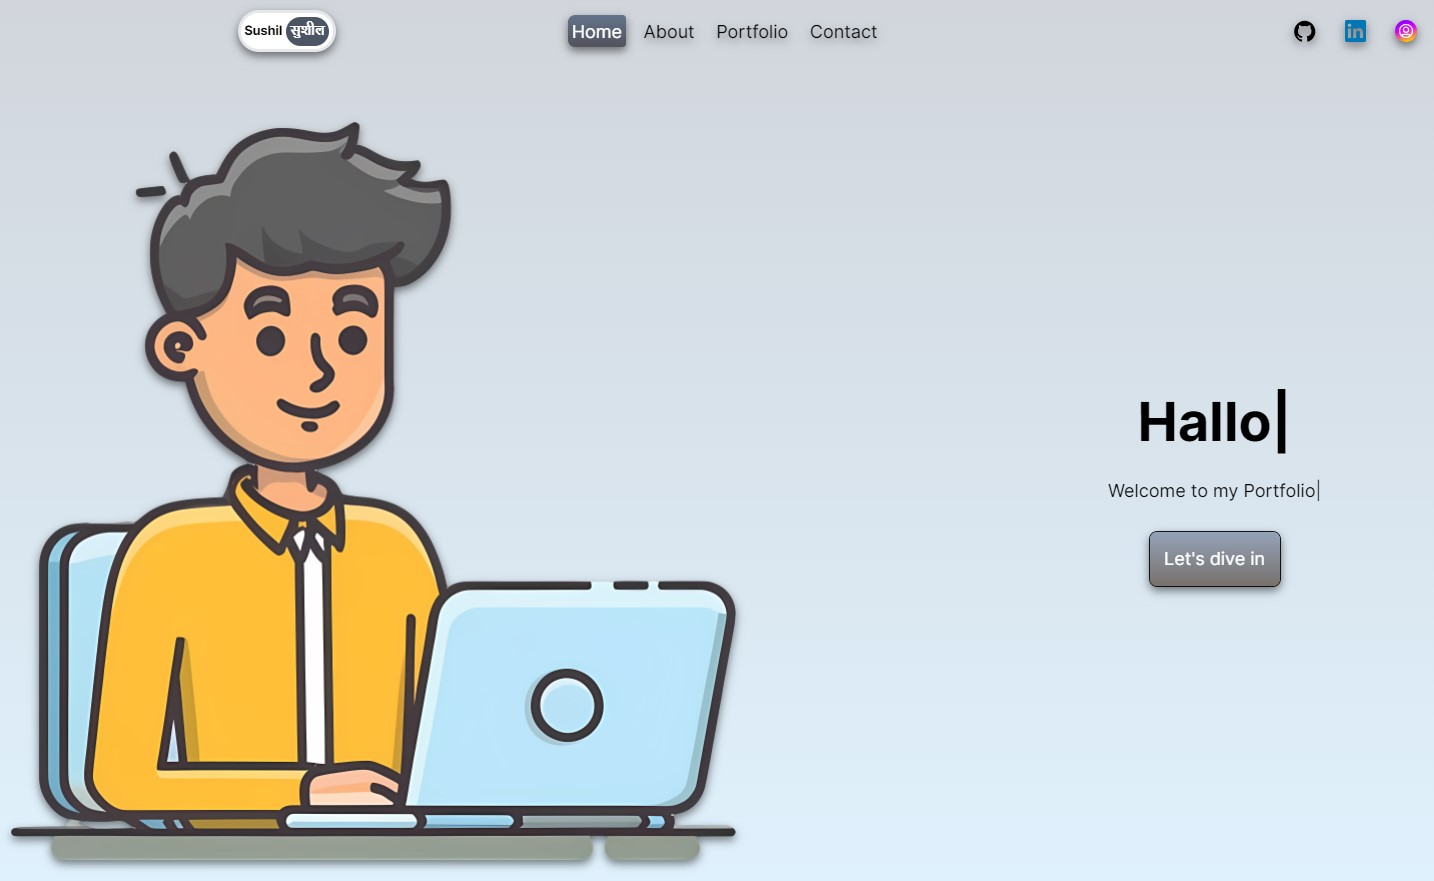
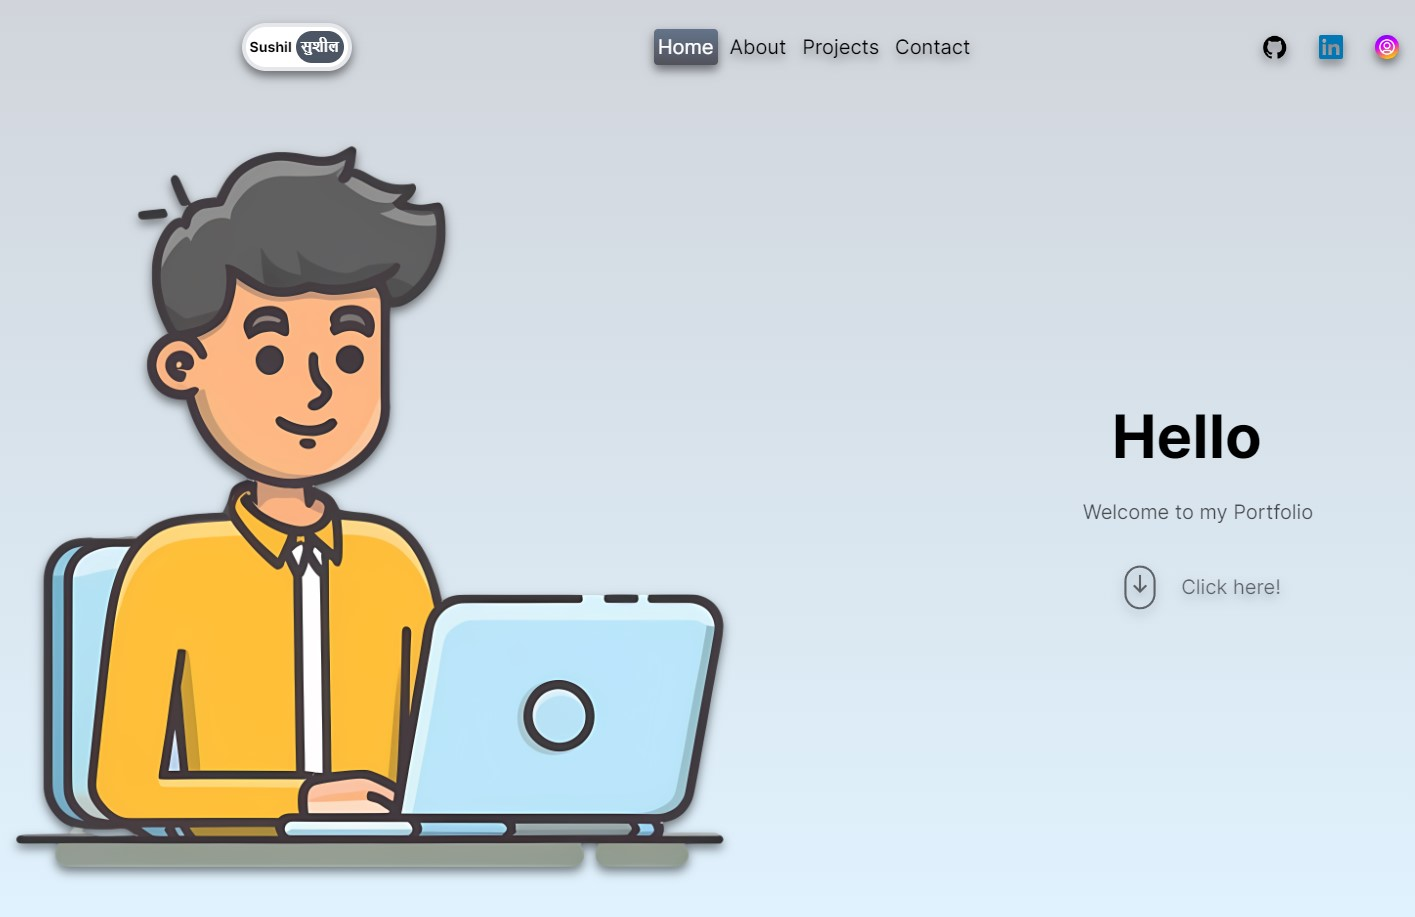
00_Update_website "Final update"

diff --git a/src/app/about/page.jsx b/src/app/about/page.jsx
@@ -38,7 +38,7 @@ const AboutPage = () => {
                         
                         {/* BIO IMAGE */}
                         <Image
-                        src="/profile.jpg"
+                        src="/profile.png"
                         alt=""
                         width={150}
                         height={150}
@@ -50,7 +50,7 @@ const AboutPage = () => {
                         
                         {/*BIO DESCRIPTION*/}
                         <p className="text-lg">
-                            My name is <b>Sushil</b>, frontend developer adept at crafting intuitive user interfaces with a keen eye for design and functionality.   
+                            My name is <b>Your Name</b>, frontend developer adept at crafting intuitive user interfaces with a keen eye for design and functionality.   
                         </p>
                         
                         {/*BIO QUOTE*/}
@@ -167,10 +167,10 @@ const AboutPage = () => {
                                 <div className="w-1/3 flex flex-wrap">
                                     {/*JOB TITLE*/}
                                     <div className="bg-slate-100 p-3 font-semibold rounded-b-lg rounded-s-lg drop-shadow-[0_5px_5px_rgba(0,0,0,0.5)]">
-                                        Software Developer - Apprenticeship
+                                        Software Developer - Blip Blop
                                         {/*JOB COMPANY*/}
                                         <div className="p-1 rounded text-xs text-amber-500 font-semibold w-fixed">
-                                        4K Analytics GmbH, Leipzig
+                                        Location, Country
                                         </div>
                                     </div>
                                     {/*JOB DESCRIPTION*/}
@@ -217,15 +217,15 @@ const AboutPage = () => {
                                 <div className="w-1/3 flex flex-wrap">
                                     {/*DEGREE TITLE*/}
                                     <div className="bg-slate-100 p-3 font-semibold rounded-b-lg rounded-s-lg drop-shadow-[0_5px_5px_rgba(0,0,0,0.5)]">
-                                        Global Business and Economics - B.Sc.
+                                        Education - B.Sc.
                                         {/*UNI NAME*/}
                                         <div className="p-1 rounded text-xs text-amber-500 font-semibold w-fixed">
-                                        Fachhochschule Aachen, Aachen
+                                        University, Location
                                         </div>
                                     </div>
                                     {/*JOB DESCRIPTION*/}
                                     <div className="p-3 text-xs italic">
-                                        Specialisation: International Business
+                                        Specialisation: Study Field
                                     </div>
                                     {/*JOB PERIOD*/}
                                     <div className="p3 text-orange-600 text-xs font-semibold"> 
@@ -240,14 +240,14 @@ const AboutPage = () => {
                                 <div className="w-1/3 flex flex-wrap">
                                     {/*JOB TITLE*/}
                                     <div className="bg-slate-100 p-3 font-semibold rounded-b-lg rounded-s-lg drop-shadow-[0_5px_5px_rgba(0,0,0,0.5)]">
-                                        Studienkolleg
+                                        Studies
                                         <div className="p-1 rounded text-xs text-amber-500 font-semibold w-fixed">
-                                            Fachhochschule Kiel, Kiel
+                                            University, Location
                                         </div>
                                     </div>
                                     {/*JOB DESCRIPTION*/}
                                     <div className="p-3 text-xs italic">
-                                        Subjects: Maths, Economic, Informatics, English & German
+                                        Subjects: TBD, TBD, TBD
                                     </div>
                                     {/*JOB PERIOD*/}
                                     <div className="p3 text-orange-600 text-xs font-semibold"> 
@@ -294,7 +294,7 @@ const AboutPage = () => {
                                     animate={{ opacity: 1, y: "10px" }}
                                     transition={{ repeat: Infinity, duration: 3, ease: "easeInOut" }}
                                 >
-                                    Click for more!
+                                    Click here!
                                 </motion.div>
                             </div>
                             </Link>

diff --git a/src/app/projects/page.jsx b/src/app/projects/page.jsx
@@ -7,35 +7,43 @@ import {motion, useScroll, useTransform} from "framer-motion";
 
 const items = [
     {
-        id: 3,
-        color:  "from-slate-600 to-gray-700",
-        title:  "Bishop-Blitz",
-        desc:   "An online Chess game built with Angular, TypeScript with Stockfish API.",
-        img:    "/bishop_blitz.jpg",
-        link:   "https://bishopblitz.netlify.app/",
-    },
-    {
         id: 1,
         color:  "from-slate-600 to-gray-700",
-        title:  "Nike-clone",
-        desc:   "Nike landing page clone, built with React and Tailwind CSS",
-        img:    "/nike_clone.jpg",
-        link:   "https://sushil-clone-nike-landing-page.netlify.app",  
+        title:  "TBD Project",
+        desc:   "TBD Description",
+        img:    "/under_construction.jpg",
+        link:   "https://github.com/" 
     },
     {
         id: 2,
+        color:  "from-slate-600 to-gray-700",
+        title:  "TBD Project",
+        desc:   "TBD Description",
+        img:    "/under_construction.jpg",
+        link:   "https://github.com/"
+    },
+    {
+        id: 3,
         color:  "from-slate-400 to-gray-500",
-        title:  "Nile",
-        desc:   "A single page E-commerce app built with Angular and TypeScript.",
-        img:    "/nile_ecom.jpg",
-        link:   "https://nile-rvr.netlify.app/",  
+        title:  "TBD Project",
+        desc:   "TBD Description",
+        img:    "/under_construction.jpg",
+        link:   "https://github.com/"
+    },
+    {
+        id: 4,
+        color:  "from-slate-400 to-gray-500",
+        title:  "TBD Project",
+        desc:   "TBD Description",
+        img:    "/under_construction.jpg",
+        link:   "https://github.com/" 
     },
 ]
 
 const ProjectsPage = () => {
     const ref = useRef();
     const {scrollYProgress} = useScroll({target:ref});
-    const x = useTransform(scrollYProgress, [0, 1], ["0%", "-75%"]);
+    const x = useTransform(scrollYProgress, [0, 1], ["0%", "-80%"]);
 
     return (
         <motion.div 
@@ -63,9 +71,11 @@ const ProjectsPage = () => {
                                     {/*Description*/}
                                     <p className="w-80 md:w-96 lg:w-[500px] lg:text-lg xl:w-[600px]">{item.desc}</p>
                                     {/*Link with Button*/}
+                                    <div>
                                     <Link href={item.link} className="flex justify-end" target="_blank">
-                                        < button className="p-2 text-sm md:p-4 md:text-md lg:text-lg bg-white text-gray-600 font-semibold rounded-lg overflow-hidden drop-shadow-[0_5px_5px_rgba(0,0,0,0.5)]">Visit website</button>
+                                        < button className="p-2 text-sm md:p-4 md:text-md lg:text-lg bg-white text-gray-600 font-semibold rounded-lg overflow-hidden drop-shadow-[0_5px_5px_rgba(0,0,0,0.5)]">Github</button>
                                     </Link>
+                                    </div>
                                 </div>
                             </div>
                         ))}
@@ -77,17 +87,17 @@ const ProjectsPage = () => {
                 <h1 className="text-6xl">
                     Thank you for your visit!
                 </h1>
-                <motion.div 
-                    whileHover={{ 
-                        scale: [1.1, 1],    
+                <motion.div
+                    whileHover={{
+                        scale: [1.1, 1],
                     }}
                     transition={{
-                        type: "spring", stiffness: 400, damping: 10 
+                        type: "spring", stiffness: 400, damping: 10
                     }}
                     className="relative px-8 flex gap-4 w-full grid justify-center rounded-lg drop-shadow-[0_5px_5px_rgba(0,0,0,0.5)]">
                     <Link href="/contact">
                         <svg width="167.707" height="167.707">
-                            <path  
+                            <path
                                 fill="222221" 
                                 d="M154.799,140.863H12.909C5.791,140.863,0,135.072,0,127.954V39.753c0-7.118,5.791-12.909,12.909-12.909h141.89c7.117,0,12.908,5.791,12.908,12.909v88.201C167.707,135.072,161.916,140.863,154.799,140.863z M7.013,133.22c1.449,1.621,3.556,2.644,5.896,2.644h141.89c2.324,0,4.416-1.008,5.864-2.608L97.388,86.822l-12.068,8.809c-0.876,0.64-2.065,0.641-2.943,0.003l-12.133-8.814L7.013,133.22zM101.624,83.729l61.062,44.808c0.015-0.192,0.021-0.387,0.021-0.583V39.753c0-0.199-0.008-0.397-0.022-0.593L101.624,83.729zM5.007,39.427C5.002,39.535,5,39.644,5,39.753v88.201c0,0.178,0.006,0.354,0.018,0.527l60.979-44.747L5.007,39.427z M6.896,34.619l76.945,55.899l76.817-56.07c-1.448-1.599-3.539-2.604-5.86-2.604H12.909C10.505,31.844,8.349,32.922,6.896,34.619z"/>
                             </svg>

diff --git a/src/components/navbar.jsx b/src/components/navbar.jsx
@@ -75,8 +75,8 @@ const Navbar = () => {
             {/*NAME*/}
             <div className="md:hidden lg:flex xl:w-1/3 justify-center">
                 <Link href="/" className="text-sm bg-white rounded-full border-4 border-color:inherit p-1 font-bold flex items-center justify-center overflow-hidden drop-shadow-[0_5px_5px_rgba(0,0,0,0.5)]">
-                    <span className="text-black mr-1">Sushil</span>
-                    <span className="w-12 h-8 rounded-full bg-gray-600 text-white flex items-center justify-center">सुशील</span>
+                    <span className="text-black mr-1">Name</span>
+                    <span className="w-12 h-8 rounded-full bg-gray-600 text-white flex items-center justify-center">Sur</span>
                 </Link> 
             </div>
 
@@ -89,16 +89,16 @@ const Navbar = () => {
               
             {/*SOCIAL MEDIA*/}
             <div className="hidden lg:flex xl:w-1/3 xl:justify-center gap-8 rounded-lg overflow-hidden drop-shadow-[0_5px_5px_rgba(0,0,0,0.5)]">
-               <Link href="https://github.com/sdulal123" target="_blank">
+               <Link href="https://github.com/" target="_blank">
                <Image src="/github.png" alt="" width={24} height={24}/>
                </Link>
-               <Link href="https://linkedin.com/in/sushildulal123/" target="_blank">
+               <Link href="https://linkedin.com/" target="_blank">
                <Image src="/linkedin.png" alt="" width={24} height={24}/>
                </Link>
-               <Link href="https://instagram.com/sdstudio420/" target="_blank">
+               <Link href="https://instagram.com/" target="_blank">
                <Image src="/instagram.png" alt="" width={24} height={24}/>
                </Link> 
-            </div>        
+            </div>
             
             {/*RESPONSIVE MENU*/}
             <div className="md:hidden">           

diff --git a/src/app/page.jsx b/src/app/page.jsx
@@ -37,13 +37,8 @@ const Homepage = () => {
 
           {/*DESCRIPTION*/}
           <p className="md:text-xl animate-pulse">
-            <TypeAnimation
-              sequence={[
-                "Welcome to my Portfolio", 20000]}
-                speed={{ type: 'keyStrokeDelayInMs', value: 100 }}
-                deletionSpeed={{ type: 'keyStrokeDelayInMs', value: 100 }}
-              />
-            </p>
+              Welcome to my Portfolio
+          </p>
           
           {/*Home Scroll SVG*/}
           <Link href="/about" scroll={false}>
@@ -69,7 +64,7 @@ const Homepage = () => {
                 animate={{ opacity: 1, y: "10px" }}
                 transition={{ repeat: Infinity, duration: 3, ease: "easeInOut" }}
               >
-                Click for more!
+                Click here!
               </motion.div>
           </div>
           </Link>

diff --git a/src/app/contact/page.jsx b/src/app/contact/page.jsx
@@ -71,7 +71,7 @@ const ContactPage = () => {
                     ref={form}
                     className="h-1/2 lg:h-full lg:w-1/2 bg-gray-300 rounded-xl text-xl flex flex-col gap-8 outline-none justify-center p-5"
                 >
-                    <span>Dear Sushil,</span>
+                    <span>Dear Your Name,</span>
                     <textarea 
                         rows={6}  
                         required

diff --git a/README.md b/README.md
@@ -1,9 +1,6 @@
-## Personal Portfolio
+## Portfolio - Version 1
 
-[Live Preview](https://sushildulal.netlify.app/)
-
-![portfolio](https://github.com/sdulal123/portfolio/assets/86375908/6c9969b0-4ab0-4303-8a93-60536bbd00cc)
-
+[Live Preview][Insert your Website URL]
 
 ## Tools
     - Next.js
